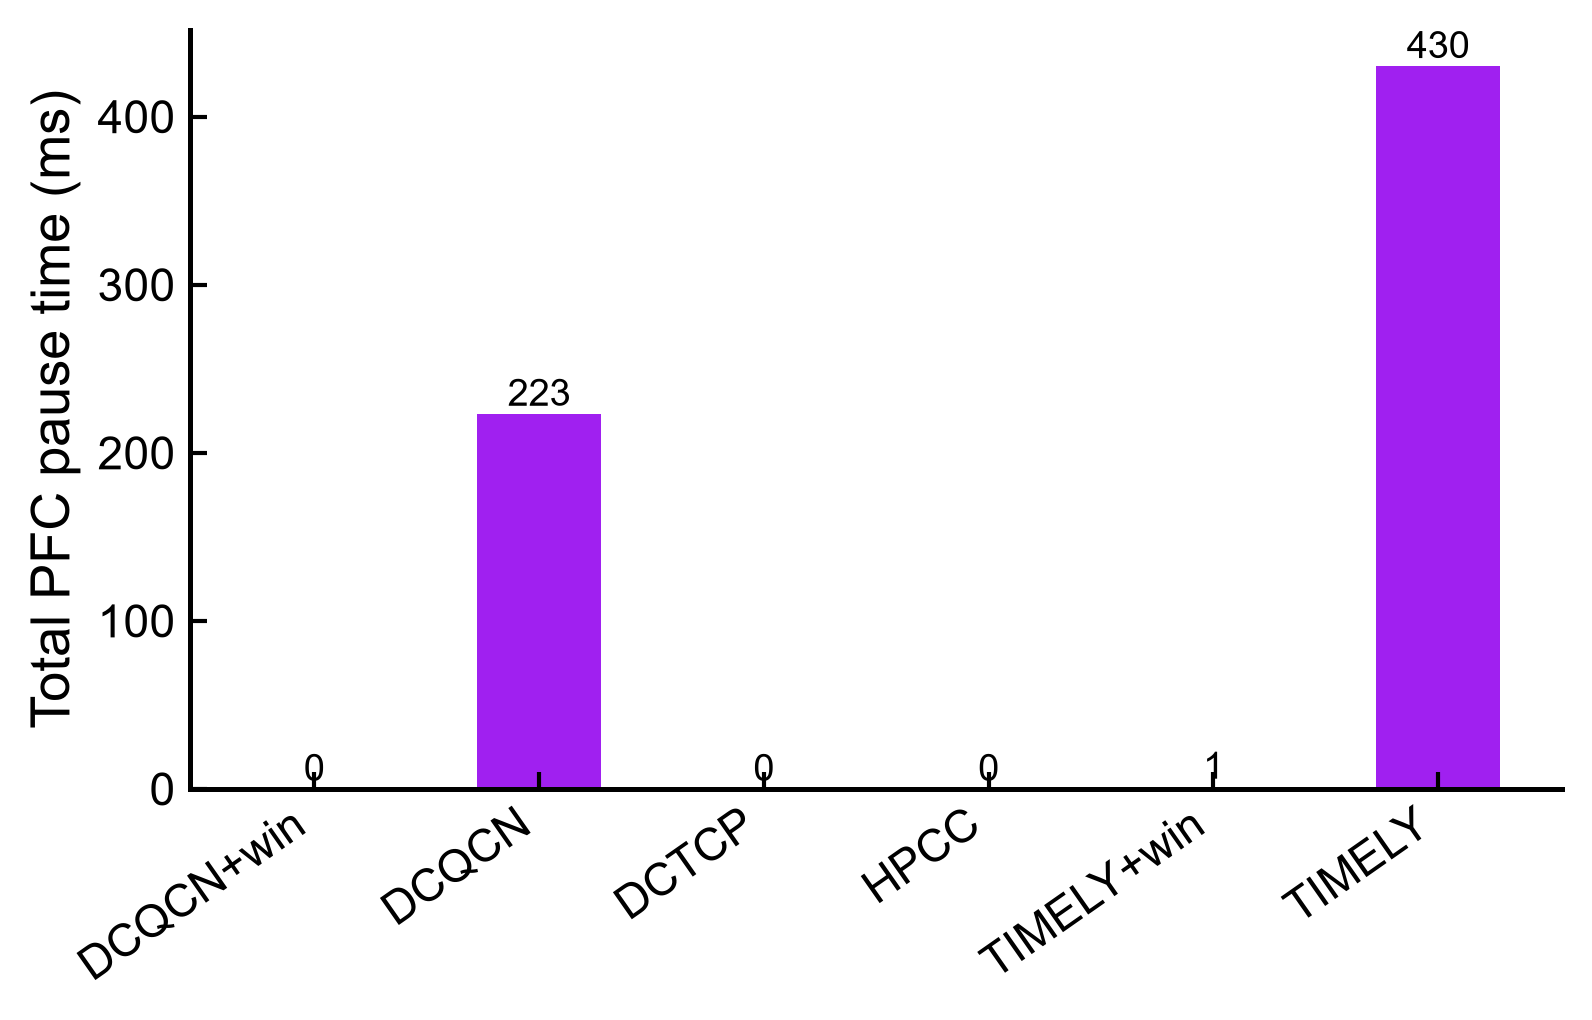
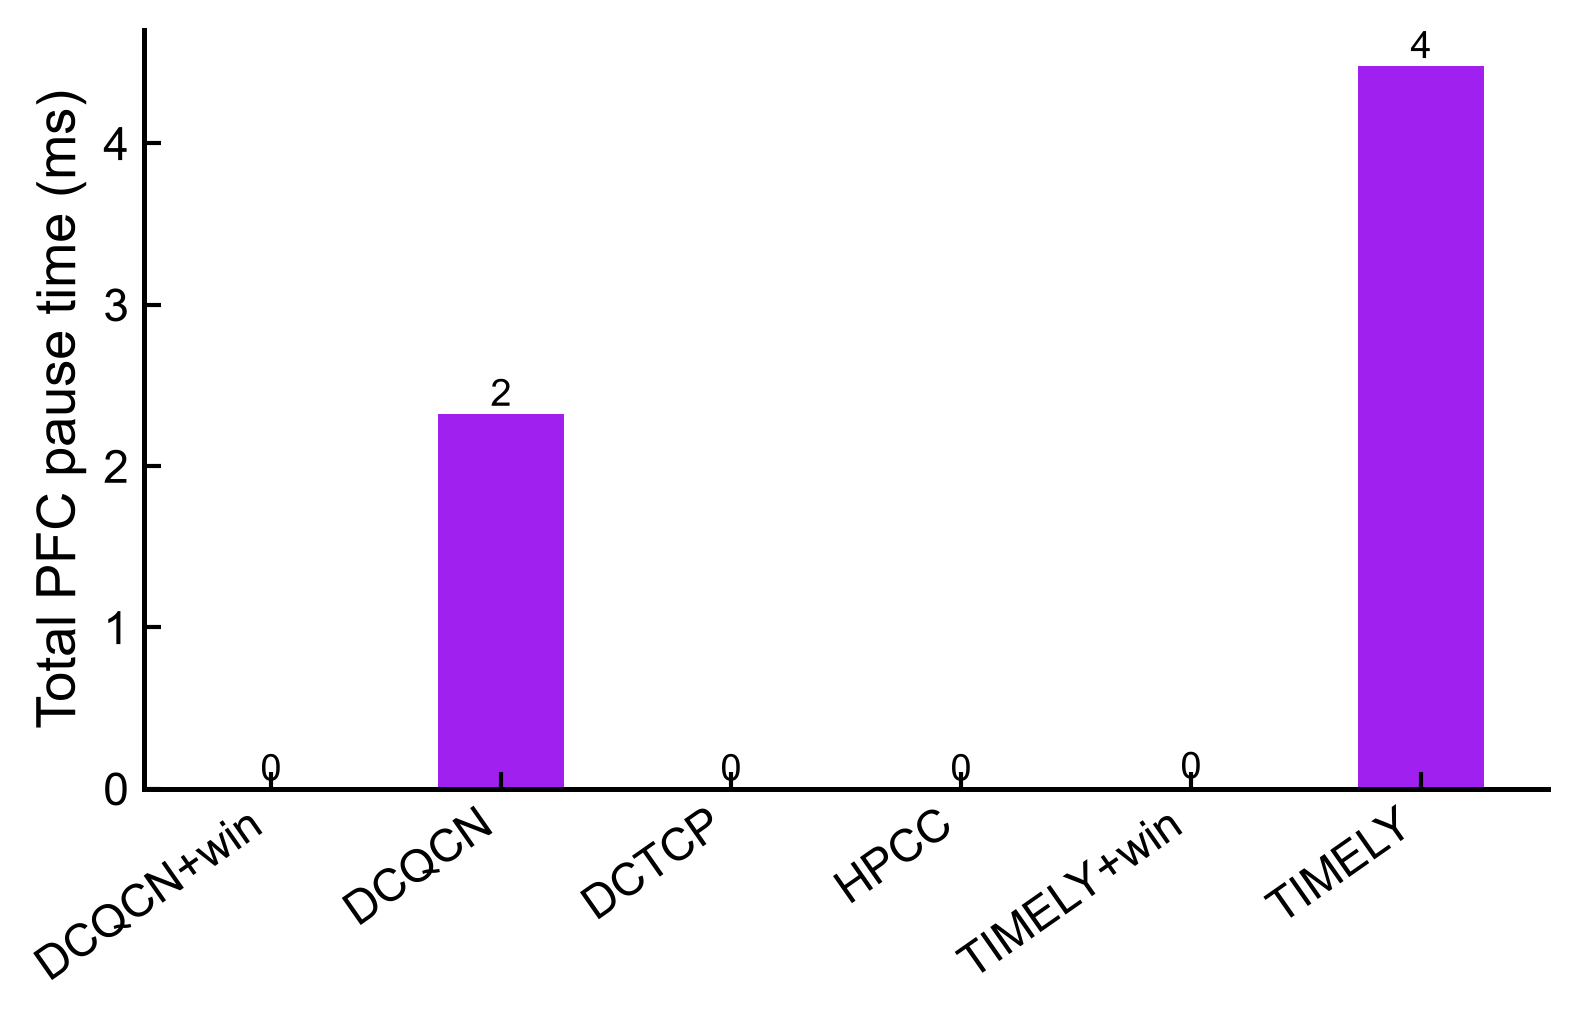
New plots for WAI

diff --git a/Trace visualizer/scripts/results reproduction/WAI analysis.py b/Trace visualizer/scripts/results reproduction/WAI analysis.py
@@ -11,10 +11,14 @@ import numpy as np
 import matplotlib.pyplot as plt
 
 START_TIME = 2000000000
+END_TIME = 2000100000
 
+SAMPLING_INTERVAL = 1000
 OUTPUT_INTERVAL = 150000
 
 RTT = 4
+
+INCAST_DESTINATION = 1
 
 def from_rate_to_window(rate):
     return int((rate*RTT)/8)
@@ -116,89 +120,46 @@ def calcola_throughput_e_queues_lengths(nome_file):
     flows = {}
     queues = {}
 
-
     with open(nome_file, 'r', encoding='utf-8') as file:
-        last_time = 2000000000
-        data_received = 0
-        #last_time_ever = 2004700000
-        last_time_ever = 2050000000
-        last_time_seen = last_time
-        next_time = last_time + 10000
-        start = 0
         for linea in file:
             linea = linea.strip()
             if linea:
                 tr = Trace(linea)
-               # if tr.qlen > 0:
-                last_time_seen = tr.time#-3450000*(window_size == 300)
-
-                if tr.time > last_time_ever:
-                    continue
-
                 flow_id = identifica_flow_id(tr)
-                if tr.type == "DATA" and tr.event_kind == "Recv" and tr.node == flows[flow_id]["destination node"]:
-                    flows[flow_id]["data"] += tr.size
-                    data_received += tr.size
-
-                elif tr.type == "DATA":
-                    if not flow_id in flows:
-                        flows[flow_id] = {
-                            "throughput": {},
-                            "destination node": 1,
-                            "data": 0
+                if tr.time > END_TIME:
+                    break
+                if tr.type == "DATA" and tr.event_kind == "Recv" and tr.node == INCAST_DESTINATION:
+                    last_time = START_TIME
+                    if len(flows[flow_id]) > 0:
+                        last_time = flows[flow_id][-1]["ts"]
+                    flows[flow_id].append(
+                        {
+                            "ts": tr.time,
+                            "throughput": tr.size/(tr.time - last_time)
                         }
-                        if len(flows.keys()) == 16:
-                            next_time = tr.time+10000
+                    )
+                elif tr.type == "DATA" and not flow_id in flows:
+                    flows[flow_id] = []
 
-                if tr.time >= next_time and (tr.time != last_time) and len(flows.keys()) == 16:
-                    data_received = 0
-                    for f in flows.keys():
-                        flows[f]["throughput"][str(tr.time)] = flows[f]["data"]/(tr.time-last_time)
-                        flows[f]["data"] = 0
-
-                    last_time = tr.time
-                    next_time = tr.time+10000
-
-                if start == 0 and identifica_queue_id(tr)=="0:1:3" and tr.time>2000050000:
-                    start = tr.time
-
-    next_times = {}
-    step = 1000
-
-    end = last_time_ever#last_time_seen
+    next_sampling_time = START_TIME
     with open(nome_file, 'r', encoding='utf-8') as file:
         for linea in file:
             linea = linea.strip()
             if linea:
                 tr = Trace(linea)
-                if tr.time < start:
-                    continue
-
                 queue_id = identifica_queue_id(tr)
+
+                if tr.time > END_TIME:
+                    break
 
                 if not queue_id in queues:
                     queues[queue_id] = []
 
-                queues[queue_id].append({"time": tr.time, "value": tr.qlen / 1000})
+                if tr.time >= next_sampling_time:
+                    queues[queue_id].append({"ts": tr.time, "qLen": tr.qlen / 1000})
+                    next_sampling_time += SAMPLING_INTERVAL
 
-
-    new_queues = {k: [] for k in queues}
-
-    for q in queues:
-        events = queues[q]
-
-        i = 0
-        last_value = 0
-
-        for t in range(start, end, step):
-            # aggiorna fino al tempo t
-            while i < len(events) and events[i]["time"] <= t:
-                last_value = events[i]["value"]
-                i += 1
-
-            new_queues[q].append(last_value)
-
-    return flows, new_queues
+    return flows, queues
 
 def plot_stacked_throughputs(throughputs, output_folder):
     """
@@ -428,8 +389,8 @@ if __name__ == "__main__":
     all_flows = {}
     all_qLens = {}
     for i in range(1, 1000):
-        FILE_NAME = "mix_incast_incastflow3_hp95ai"+str(i)+".tr"
-        INPUT_FOLDER_ROOT = "data\\input\\" + FILE_NAME + ".txt"
+        FILE_NAME = "mix_incast_incastflow3_hp95ai"+str(i)+".tr.txt"
+        INPUT_FOLDER_ROOT = Path(Path("..") / ".." / "data" / "input" / FILE_NAME).resolve()
         window_size = from_rate_to_window(i)
 
         if os.path.exists(INPUT_FOLDER_ROOT):
@@ -441,7 +402,7 @@ if __name__ == "__main__":
             all_qLens[str(window_size)] = queues
 
 
-    OUTPUT_FOLDER = "data\\output\\W_AI analysis\\"
+    OUTPUT_FOLDER = Path(Path("..") / ".." / "data" / "output" / "W_AI analysis").resolve()
 
     cartella = Path(OUTPUT_FOLDER)
     if cartella.exists():
@@ -449,6 +410,7 @@ if __name__ == "__main__":
 
     cartella.mkdir(parents=True)
 
+    '''
     throughputs = {}
     for k in all_flows:
         print("W_AI: " + str(k))
@@ -467,9 +429,6 @@ if __name__ == "__main__":
 
         total_sum = sum(avg_values)
 
-       # if total_sum > 100:
-        #    scale = 100.0 / total_sum
-        #else:
         scale = 1.0
 
         throughputs[k] = [v * scale for v in avg_values]
@@ -480,8 +439,8 @@ if __name__ == "__main__":
         plot_throughput_evolution(all_flows[k], cartella, k)
 
     plot_stacked_throughputs(throughputs, cartella)
-
-
+    
+    '''
     queue_stats = {}
 
     QUEUE_ID = "0:1:3"  # oppure "3:1"
@@ -495,6 +454,7 @@ if __name__ == "__main__":
             np.percentile(values, 95,  method="linear"),
             np.percentile(values, 99,  method="linear"),
         )
+        print(queue_stats[wai])
 
     plot_queue_stats(queue_stats, cartella)
     plot_queue_distribution(all_qLens, QUEUE_ID, cartella)

diff --git a/Trace visualizer/scripts/research question/PFC analysis.py b/Trace visualizer/scripts/research question/PFC analysis.py
@@ -880,10 +880,10 @@ def plot_total_pause_time():
     fig, ax = plt.subplots(figsize=(5.5, 3.6))
 
 
-    total_time = 1#((END_TIME-START_TIME))/(1000 * 1000)
+    total_time = ((END_TIME-START_TIME)*(480))/(1000 * 1000)
     bars = ax.bar(
         x,
-        [values[c]/total_time for c in labels],
+        [100*(values[c]/total_time) for c in labels],
         width=0.55,
         color=colors[0]
     )